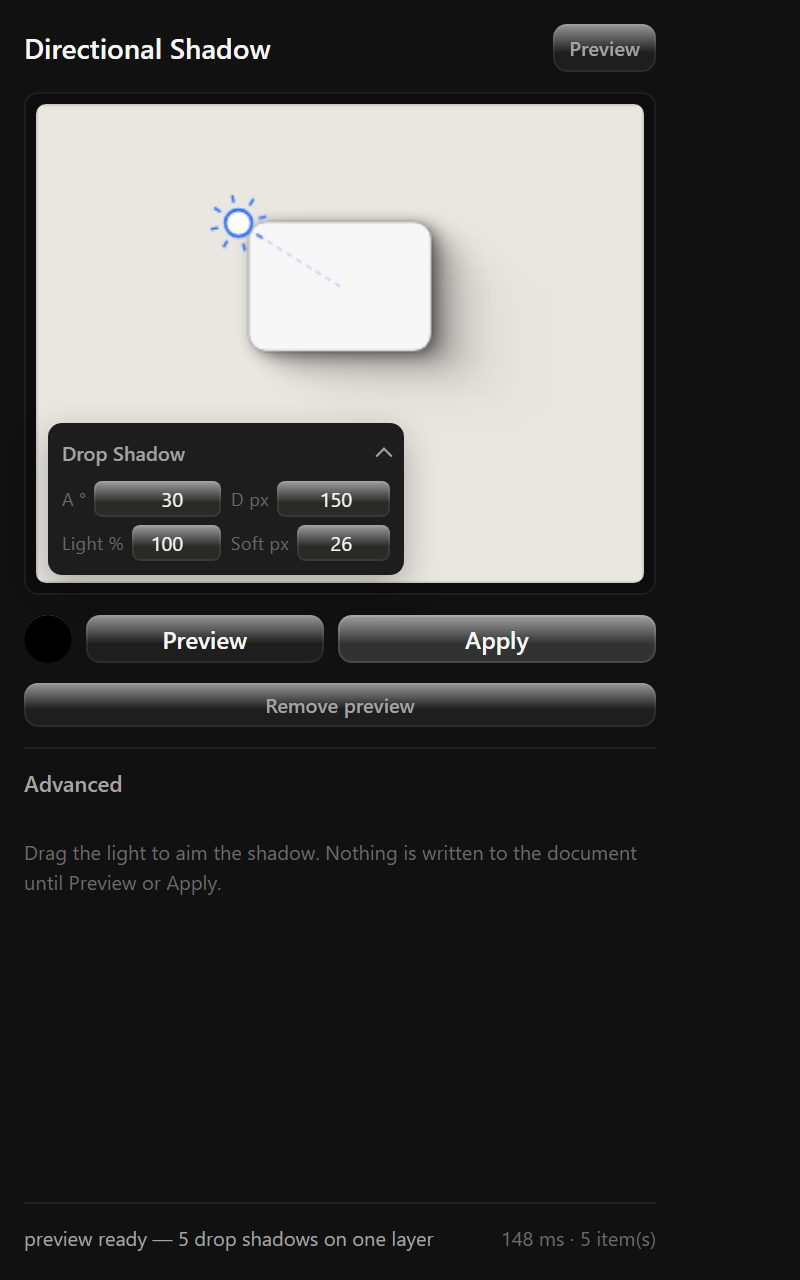
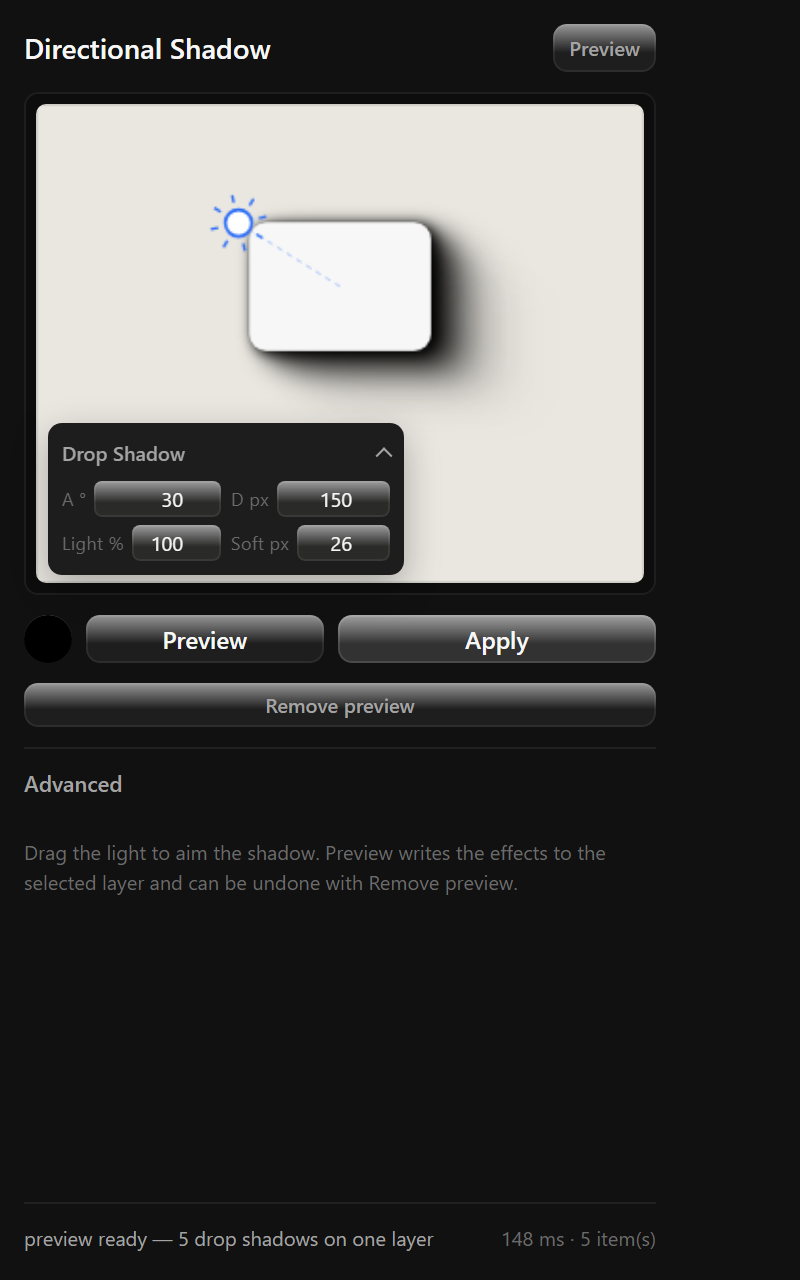
feat: lock the five-step Figma preset, lighting capped at 100 percent

Changed region(s): [[0.3125, 0.1562, 0.625, 0.3125], [0.0312, 0.6562, 0.7812, 0.7188]]

diff --git a/plugin/shadow.js b/plugin/shadow.js
@@ -27,16 +27,19 @@
   const DEFAULTS = {
     angle: 30,
     distance: 150,
-    steps: 5,
     blur: 26,
     colour: "#000000",
-    startOpacity: 44,
-    endOpacity: 1,
     darkness: 100,
     taper: false,
     taperEnd: 90,
     rasterize: true,
   };
+
+  /** Fixed 5-step preset, taken from the Beautiful Shadows plugin. Farthest → nearest. */
+  const STEPS = 5;
+  const DISTANCE_FACTORS = [1, 0.64, 0.36, 0.16, 0.04];
+  const BLUR_FACTORS = [1, 0.91, 0.76, 0.57, 0.3];
+  const OPACITY_FACTORS = [0.02, 0.15, 0.5, 0.85, 0.98];
 
   const GROUP_NAME = "Directional Blur Shadow";
 
@@ -51,12 +54,9 @@
     return {
       angle: clamp(params.angle, 0, 360),
       distance: clamp(params.distance, 1, 2000),
-      steps: Math.round(clamp(params.steps, 3, 30)),
       blur: clamp(params.blur, 0.1, 300),
       colour: /^#[0-9a-f]{6}$/i.test(String(params.colour)) ? params.colour : DEFAULTS.colour,
-      startOpacity: clamp(params.startOpacity, 1, 100),
-      endOpacity: clamp(params.endOpacity, 0, 100),
-      darkness: clamp(params.darkness, 10, 300),
+      darkness: clamp(params.darkness, 1, 100),
       taper: Boolean(params.taper),
       taperEnd: clamp(params.taperEnd, 1, 500),
       rasterize: Boolean(params.rasterize),
@@ -66,34 +66,30 @@
   /**
    * Per-layer plan, farthest first (index 0 = end of the shadow). Pure.
    *
-   * opacityMode "direct"    → ramp value as-is (independent layer styles, like the Figma plugin).
-   * opacityMode "composite" → normalised for stacked copies (1 − (1 − target)^(1/steps)).
+   * Five fixed steps from the Beautiful Shadows plugin:
+   *   offset  = distance × t²            (6, 24, 54, 96, 150 for distance 150)
+   *   blur    = softness × preset        (26, 24, 20, 15, 8 for softness 26)
+   *   opacity = lighting × preset         (2, 15, 50, 85, 98 % at lighting 100 %)
+   * Lighting scales every layer, so a lower value fades the whole shadow exactly like the Figma
+   * plugin's Brightness control.
    */
-  function planLayers(input, opacityMode) {
+  function planLayers(input) {
     const params = normalise(input);
-    const direct = opacityMode === "direct";
     const angleRad = (params.angle * Math.PI) / 180;
     const nx = Math.cos(angleRad);
     const ny = Math.sin(angleRad);
-    const start = params.startOpacity / 100;
-    const end = params.endOpacity / 100;
-    const darkness = params.darkness / 100;
+    const lighting = params.darkness / 100;
     const layers = [];
 
-    for (let step = params.steps; step >= 1; step -= 1) {
-      const t = step / params.steps;
-      const rampT = params.steps === 1 ? 0 : (t - 1 / params.steps) / (1 - 1 / params.steps);
-      const target = clamp(end + (start - end) * Math.pow(1 - rampT, 2), 0, 1);
-      const raw = direct ? target : 1 - Math.pow(1 - target, 1 / params.steps);
-      const shaded = darkness === 1 ? raw : 1 - Math.pow(1 - raw, darkness);
+    for (let index = 0; index < STEPS; index += 1) {
+      const t = 1 - index / (STEPS - 1); // 1 = farthest, 0 = nearest
       layers.push({
-        step,
+        step: STEPS - index,
         t,
-        dx: nx * params.distance * t * t,
-        dy: ny * params.distance * t * t,
-        blur: Math.max(0.1, params.blur * Math.pow(t, 0.7)),
-        target,
-        opacity: Math.min(1, shaded),
+        dx: nx * params.distance * DISTANCE_FACTORS[index],
+        dy: ny * params.distance * DISTANCE_FACTORS[index],
+        blur: Math.max(0.1, params.blur * BLUR_FACTORS[index]),
+        opacity: Math.min(1, lighting * OPACITY_FACTORS[index]),
         perpScale: 1 + (params.taperEnd / 100 - 1) * t,
       });
     }
@@ -496,7 +492,7 @@
   async function applyLayerStyles(api, options) {
     const documentId = options.documentId;
     const layerId = options.layerId;
-    const plan = planLayers(options.params, "direct");
+    const plan = planLayers(options.params);
     const onStep = options.onStep || (() => {});
     const doc = await api.documents.active();
     const layer = (doc.layers || []).find((item) => item.id === layerId);
@@ -550,6 +546,10 @@
   return {
     DEFAULTS,
     GROUP_NAME,
+    STEPS,
+    DISTANCE_FACTORS,
+    BLUR_FACTORS,
+    OPACITY_FACTORS,
     clamp,
     normalise,
     planLayers,

diff --git a/plugin/app.js b/plugin/app.js
@@ -17,12 +17,9 @@ const el = {
   modeHint: document.getElementById("modeHint"),
   angle: document.getElementById("angle"),
   distance: document.getElementById("distance"),
-  steps: document.getElementById("steps"),
   blur: document.getElementById("blur"),
   colour: document.getElementById("colour"),
   darkness: document.getElementById("darkness"),
-  startOpacity: document.getElementById("startOpacity"),
-  endOpacity: document.getElementById("endOpacity"),
   taper: document.getElementById("taper"),
   taperEnd: document.getElementById("taperEnd"),
   rasterize: document.getElementById("rasterize"),
@@ -65,11 +62,8 @@ function readParams() {
   return Shadow.normalise({
     angle: el.angle.value,
     distance: el.distance.value,
-    steps: el.steps.value,
     blur: el.blur.value,
     colour: el.colour.value,
-    startOpacity: el.startOpacity.value,
-    endOpacity: el.endOpacity.value,
     darkness: el.darkness.value,
     taper: el.taper.checked,
     taperEnd: el.taperEnd.value,
@@ -80,12 +74,9 @@ function readParams() {
 function applyParamsToUi(params) {
   el.angle.value = String(params.angle);
   el.distance.value = String(params.distance);
-  el.steps.value = String(params.steps);
   el.blur.value = String(params.blur);
   el.colour.value = params.colour;
   el.darkness.value = String(params.darkness);
-  el.startOpacity.value = String(params.startOpacity);
-  el.endOpacity.value = String(params.endOpacity);
   el.taper.checked = Boolean(params.taper);
   el.taperEnd.value = String(params.taperEnd);
   el.taperEnd.disabled = !params.taper;
@@ -160,7 +151,7 @@ async function runPreview() {
     await dropPreview();
     const { doc, layerId } = await selectedLayer();
     const mode = readMode();
-    setStatus(mode === "effects" ? "adding " + lastParams.steps + " drop shadows…" : "building " + lastParams.steps + " layers…");
+    setStatus(mode === "effects" ? "adding " + Shadow.STEPS + " drop shadows…" : "building " + Shadow.STEPS + " layers…");
     const startedAt = performance.now();
     preview = await buildFor(doc, layerId, lastParams, mode);
     lastPayload = (preview && preview.payloads) || null;
@@ -198,7 +189,7 @@ async function runApply() {
 
     const mode = readMode();
     if (!preview) {
-      setStatus(mode === "effects" ? "adding " + lastParams.steps + " drop shadows…" : "building " + lastParams.steps + " layers…");
+      setStatus(mode === "effects" ? "adding " + Shadow.STEPS + " drop shadows…" : "building " + Shadow.STEPS + " layers…");
       preview = await buildFor(doc, layerId, lastParams, mode);
       preview.mode = mode;
     }
@@ -447,7 +438,7 @@ function wire() {
     canvas.addEventListener("pointercancel", stop);
     canvas.addEventListener("pointerleave", stop);
   }
-  for (const input of [el.angle, el.distance, el.steps, el.blur, el.colour, el.darkness, el.startOpacity, el.endOpacity, el.taperEnd]) {
+  for (const input of [el.angle, el.distance, el.blur, el.colour, el.darkness, el.taperEnd]) {
     input.addEventListener("input", () => scheduleDraw());
   }
   el.inspect.addEventListener("click", () => void inspectEffects());

diff --git a/plugin/index.html b/plugin/index.html
@@ -32,7 +32,7 @@
           <div class="mini-row">
             <label class="mini">
               <span>Light %</span>
-              <input id="darkness" type="number" min="10" max="300" step="5" value="100" />
+              <input id="darkness" type="number" min="1" max="100" step="1" value="100" />
             </label>
             <label class="mini">
               <span>Soft px</span>
@@ -83,22 +83,8 @@
           </select>
         </div>
 
-        <div class="row">
-          <div class="field">
-            <label class="label" for="steps">Layers</label>
-            <input id="steps" class="input" type="number" min="3" max="30" step="1" value="5" />
-          </div>
-          <div class="field">
-            <label class="label" for="startOpacity">Start opacity (%)</label>
-            <input id="startOpacity" class="input" type="number" min="1" max="100" step="1" value="44" />
-          </div>
-        </div>
 
         <div class="row">
-          <div class="field">
-            <label class="label" for="endOpacity">End opacity (%)</label>
-            <input id="endOpacity" class="input" type="number" min="0" max="100" step="1" value="1" />
-          </div>
           <div class="field">
             <label class="label" for="taperEnd">Taper tip (%)</label>
             <input id="taperEnd" class="input" type="number" min="1" max="500" step="5" value="90" disabled />

diff --git a/README.md b/README.md
@@ -27,50 +27,26 @@ Nothing is written to the document until Preview or Apply is pressed.
 | --- | --- | --- | --- |
 | Angle (°) | 0–360 | 30 | 0° = right, 90° = down (clockwise on screen) |
 | Distance (px) | 1–2000 | 150 | How far the shadow travels from the layer |
-| Layers | 3–30 | **5** | Number of stacked shadows (Beautiful Shadows uses 5) |
-| Softness (px) | 1–300 | **26** | Blur at the far end of the shadow |
+| Softness (px) | 1–300 | 26 | Blur at the far end of the shadow |
+| Lighting (%) | 1–100 | 100 | Scales every layer's opacity, like Brightness in Figma |
 | Colour | hex | #000000 | Silhouette colour |
-| Lighting strength (%) | 10–300 | 100 | Multiplies the whole falloff |
-| Start opacity (%) | 1–100 | **44** | Opacity target nearest the layer |
-| End opacity (%) | 0–100 | **1** | Opacity target at the far end |
-| Taper (narrow/expand) | on/off | off | Scales each copy perpendicular to the direction |
-| Size at tip (%) | 1–500 | 90 | Taper amount at the far end |
-| Rasterize into one layer | on/off | on | Applied only when you press Apply |
+| Taper (narrow/expand) | on/off | off | Copies mode only |
+| Size at tip (%) | 1–500 | 90 | Copies mode only |
+| Rasterize into one layer | on/off | on | Copies mode only |
 
-## Ramps (matching Beautiful Shadows)
+**The step count is fixed at 5**, matching the Beautiful Shadows plugin, and the opacity follows the
+same preset:
 
-The defaults reproduce the Figma plugin's 5-shadow ramp:
-
-| Layer | Offset (px) | Blur (px) | Opacity |
+| Step | Offset | Blur | Opacity at lighting 100 % |
 | --- | --- | --- | --- |
-| 1 (far) | 150 | 26 | 1% |
-| 2 | 96 | 22 | 9% |
-| 3 | 54 | 18 | 22% |
-| 4 | 24 | 14 | 30% |
-| 5 (near) | 6 | 8 | 44% |
+| 1 (far) | distance × 1.00 | softness × 1.00 | 2 % |
+| 2 | distance × 0.64 | softness × 0.91 | 15 % |
+| 3 | distance × 0.36 | softness × 0.76 | 50 % |
+| 4 | distance × 0.16 | softness × 0.57 | 85 % |
+| 5 (near) | distance × 0.04 | softness × 0.30 | 98 % |
 
-Offset grows with `t²`, blur with `t^0.7`, opacity with `(1 − t)²` (t = 1 at the far end).
-Drop-shadow layer styles use the ramp value directly; the copies mode still normalises each
-layer's opacity for alpha-over compositing.
-
-## Preview, not live document edits
-
-The canvas preview updates instantly while you drag or type, but **the document is only changed
-when you press Preview or Apply** — no silent rebuilding while dragging. Press
-**Remove preview** to delete the preview layer.
-
-## Realtime direction preview
-
-The panel draws its own preview on a canvas using the same maths as the document build:
-
-- every shadow step is painted with `blur(radius × scale)` and the per-step opacity, so you see a
-  soft stack instead of hard copies;
-- the handle at the end of the line can be **dragged** to set angle and distance
-  (`vectorToAngleDistance`), and the inputs update live;
-- with **Live update** on, dragging the handle also rebuilds the document preview (debounced
-  ~220 ms) so the real shadow follows your hand;
-- **Diagnostics → Inspect effect parameters** dumps the host's real `dropShadow` parameter names,
-  which is how the effect mapping is verified on a given Photon build.
+Opacity is simply `lighting × preset`, so at 45 % the five layers become 1 / 7 / 23 / 38 / 44 % —
+exactly the values the Figma plugin shows.
 
 ## Two build modes
 
@@ -130,6 +106,16 @@ from that. The shadow therefore lands directly behind the subject in either conv
   preview on screen leaves it behind — press **Remove preview** first.
 
 ## Changelog
+
+### 0.11.0
+
+- **Five steps, fixed.** The Layers field is gone; the plugin always builds the Beautiful Shadows
+  preset (offset × [1, .64, .36, .16, .04], blur × [1, .91, .76, .57, .3]).
+- **Opacity follows the Figma formula:** `lighting × [2, 15, 50, 85, 98] %`, so lighting 45 % gives
+  the 1 / 7 / 23 / 38 / 44 % column the Figma plugin shows.
+- **Lighting is capped at 100 %** (was 10–300 %). Start/end opacity fields removed — they no longer
+  have a meaning with the preset.
+- Tests: 22.
 
 ### 0.10.2
 
